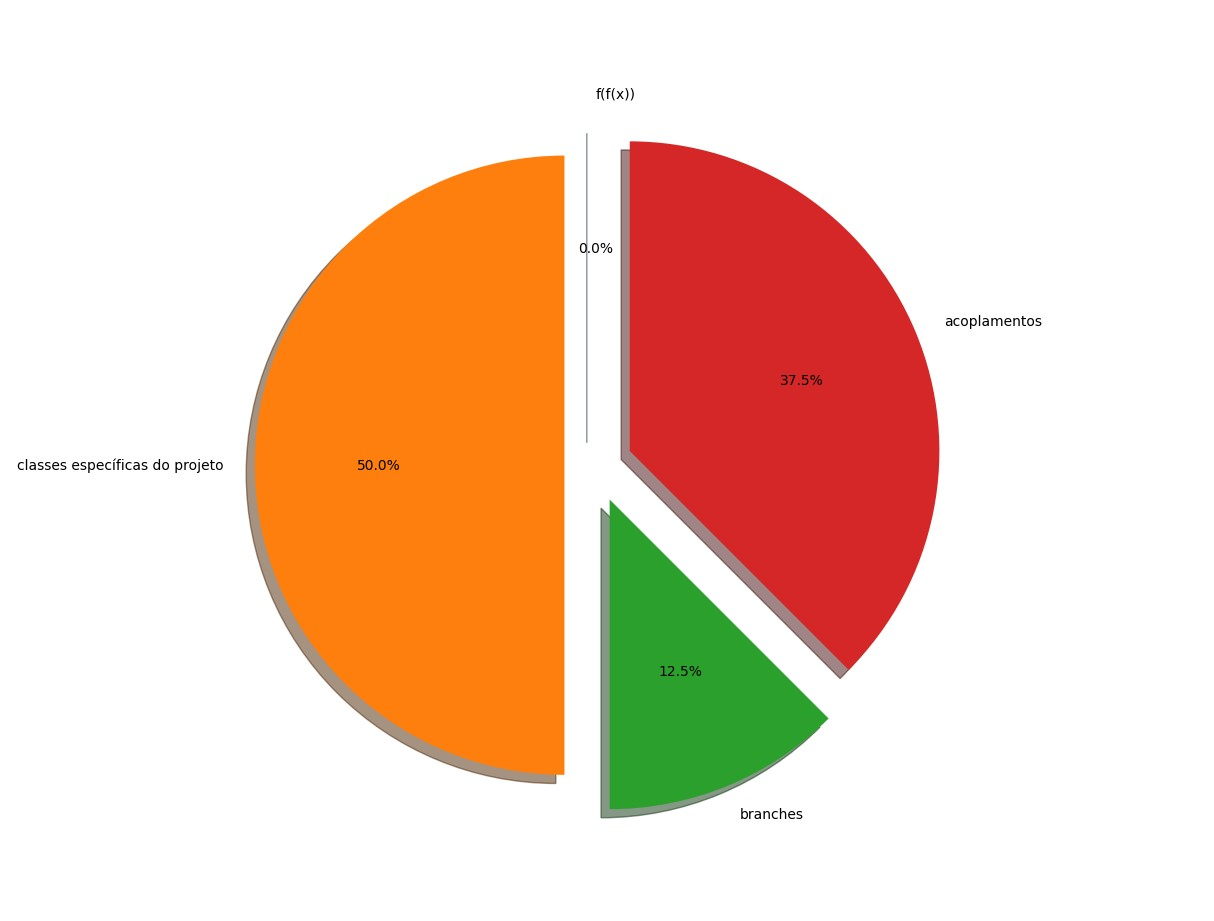
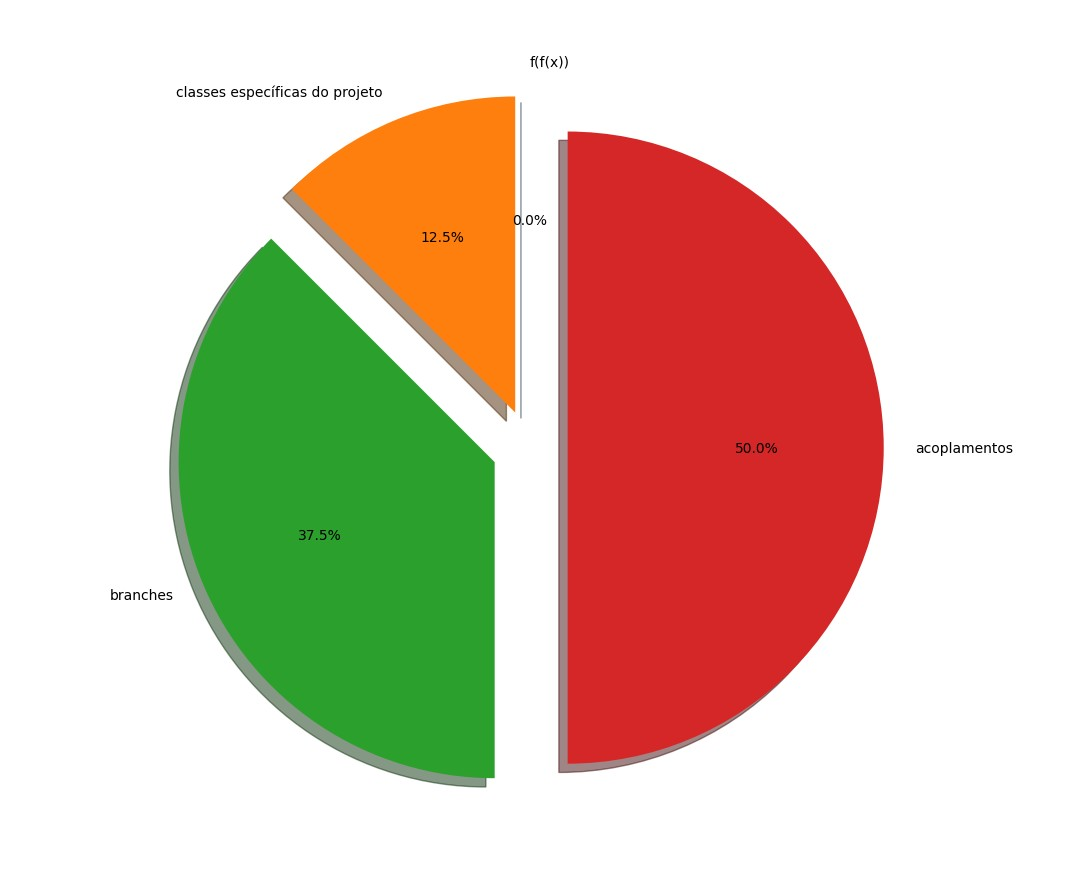
fix: arruma gráfico gerado

diff --git a/contadorcomplexidade/contador_complexidade.py b/contadorcomplexidade/contador_complexidade.py
@@ -86,9 +86,12 @@ print(f"Número de acoplamentos: {acoplamentos}\n")
 
 # gera gráfico de distribuição por critério de complexidade
 
+lista_pontos = [n_funcoes_como_parametro, len(pontos_classes_criadas_especificamente_no_projeto) - acoplamentos, pontos_complexidade_intrinseca[0], acoplamentos]
+lista_pontos.sort()
+
 # gráfico 1
 
-plt.plot(['f(f(x))', 'classes especificas ao projeto', 'branches', 'acoplamentos'],[n_funcoes_como_parametro, len(pontos_classes_criadas_especificamente_no_projeto) - acoplamentos, pontos_complexidade_intrinseca[0], acoplamentos])
+plt.plot(['f(f(x))', 'classes especificas ao projeto', 'branches', 'acoplamentos'], [lista_pontos[0], lista_pontos[1], lista_pontos[2], lista_pontos[3]])
 plt.title("Variação de pontos por critério")
 plt.show()
 
@@ -96,8 +99,8 @@ plt.show()
 # gráfico 2
 
 labels = 'f(f(x))', 'classes específicas do projeto', 'branches', 'acoplamentos'
-sizes = [n_funcoes_como_parametro, len(pontos_classes_criadas_especificamente_no_projeto) - acoplamentos, pontos_complexidade_intrinseca[0], acoplamentos]
-explode = (0.1, 0.1, 0.12, 0.12)  
+sizes = [lista_pontos[0], lista_pontos[1], lista_pontos[2], lista_pontos[3]]
+explode = (0.12, 0.12, 0.12, 0.12)  
 
 fig1, ax1 = plt.subplots()
 ax1.pie(sizes, explode=explode, labels=labels, autopct='%1.1f%%',
